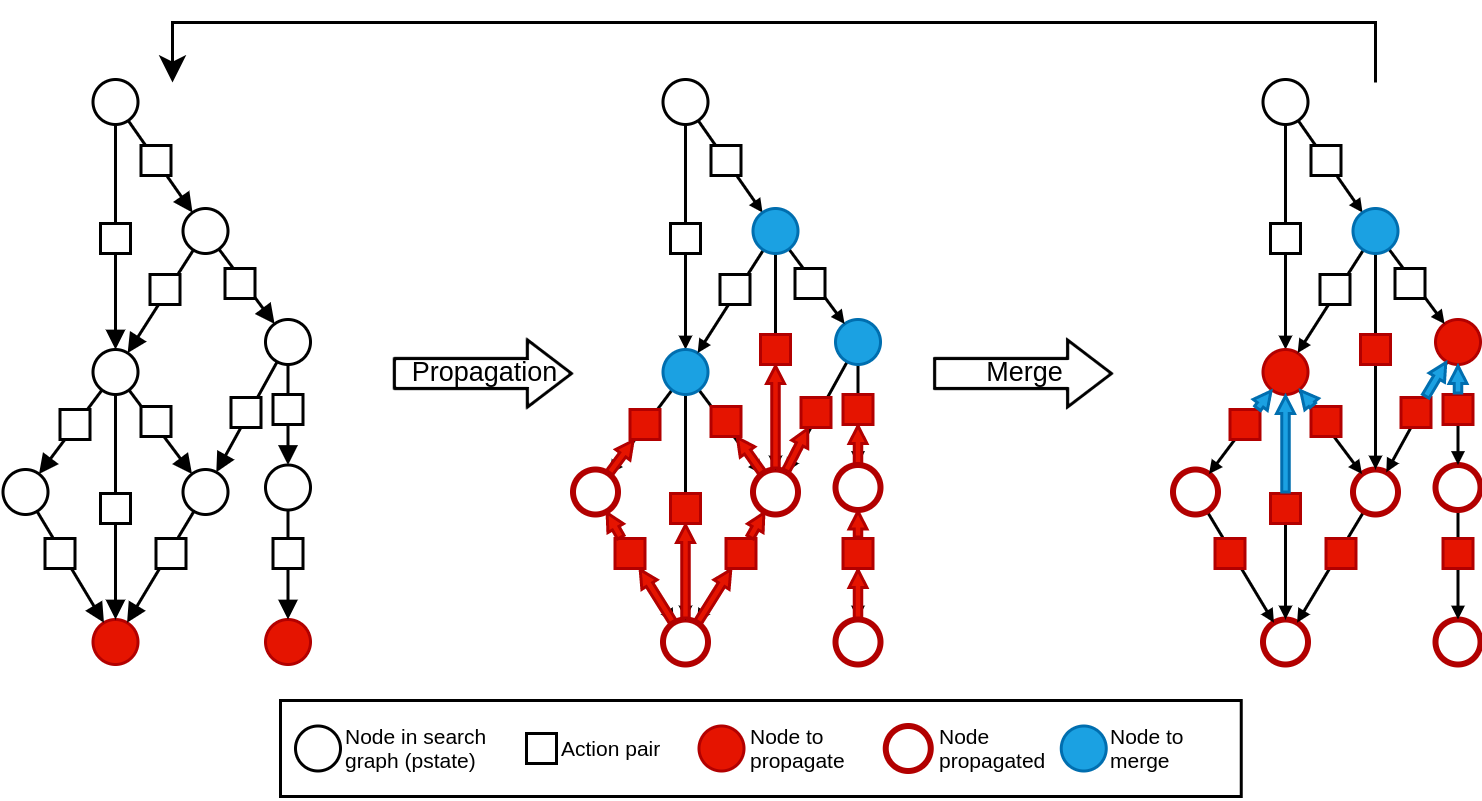
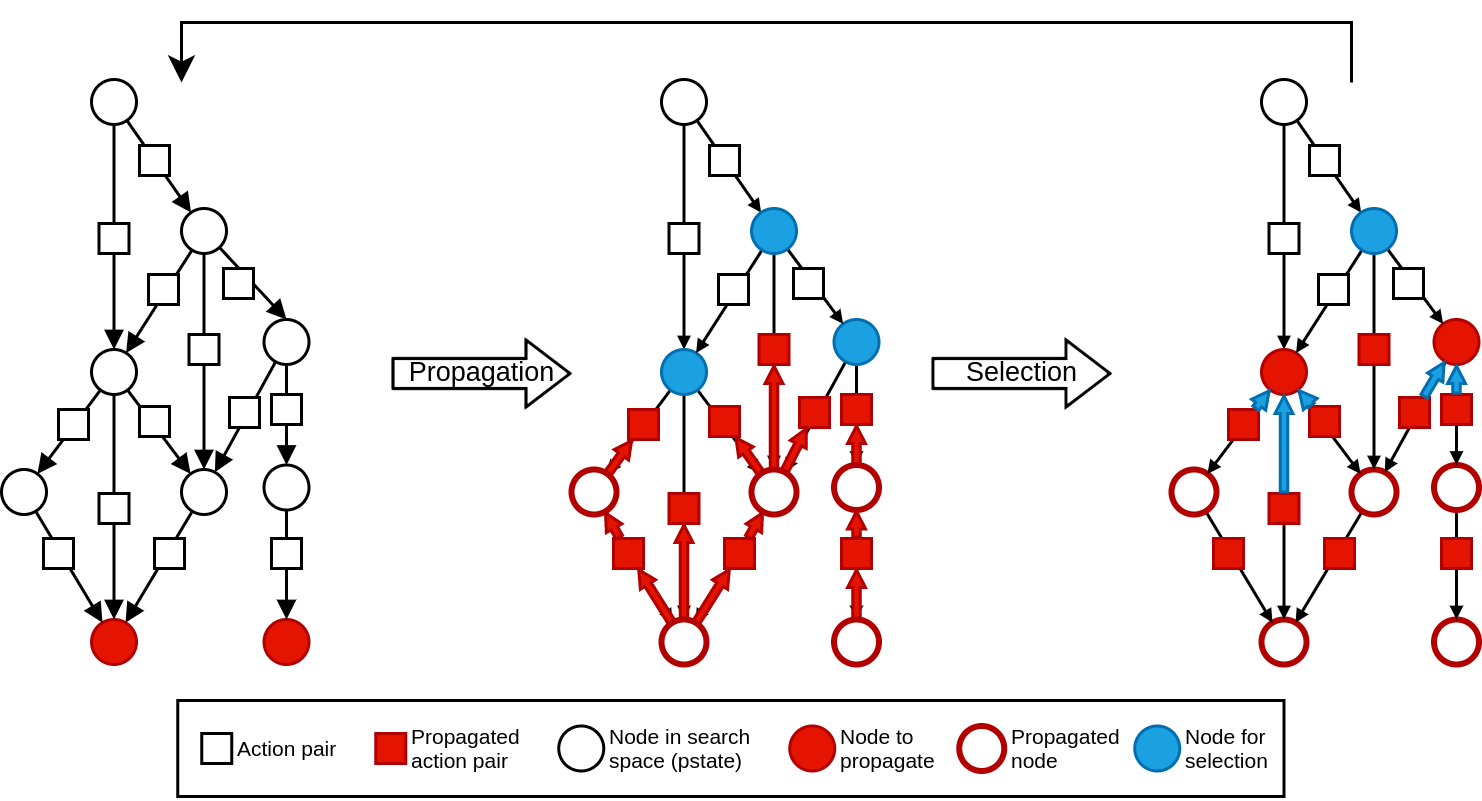
Ch4 algorithms + policy introduction

diff --git a/Chapters/Chapter4_Compliant.tex b/Chapters/Chapter4_Compliant.tex
@@ -91,6 +91,8 @@ A Planning state, referred as p-state, corresponds to a state in which the plann
 The initial p-state is formed using the initial human-robot agendas and the initial world state given in the problem specification. P-states are connected with each other through concurrent pairs of human-robot actions. Note that we consider passive actions, hence, there may be only one active agent in a pair if concurrent human-robot actions. A goal p-state is characterized by a world state satisfying given goal conditions and by empty agendas.
 The exploration produces a directed acyclic graph, referred as the search graph, from the initial p-state to several goal p-states through sequences of concurrent action pairs. Thus, any path from the root to a leaf is a possible plan. Once the exploration done, search graph computed, another process extract the optimal robot policy from the graph. In the manner of an AND-OR tree, this policy indicates for all p-states the best concurrent robot action (OR node) to execute to be compliant with any possible human action (AND node).
 
+Clarification of the directed acyclic graph. Nodes represent p-states and are connected with each other through directed edges representing human-robot concurrent action pairs. However, for practical reasons action pairs are considered as nodes of the graph having only one parent p-state node and one child p-state node. Consider that each directed edge between two p-state have one unique intermediate action pair node. The graph has one root node (no parent) which is the initial p-state. All leaf nodes (no children) represent a goal p-state. 
+
 It is one of our design choice to do not consider explicit action costs and perform an exhaustive offline search to produce this search graph in order to solve a problem. Since the policy generation is very quick it allows generating and updating the robot policy online according to human feedbacks. 
 
 
@@ -124,7 +126,7 @@ This sub-process is computes from a given p-state all possible concurrent action
 However, our current python implementation of the planner is convenient but has no "explicit" preconditions and effects. Everything is defined through python function. The effects of an action are a function with a world state as input and returns the updated world state. Action preconditions are functions with a world state as input and return a boolean. And methods (of an associated abstract task) are functions with world state as input and return a list of tasks to update the agenda with. Methods also have preconditions working similarly then action preconditions. 
 Hence, it's challenging to extract the explicit effects and preconditions of an action. That is why we decided to rely on an assumption to check the compatibility of concurrent actions. 
 We consider the following in a given state. 
-If action 1 and action 2 can be sequentially performed in both orders (1->2 and 2->1). Then we can assume that there are no causal links between the two actions and that they can be performed concurrently. The only care to take are shared resources such as a tool that would only be used during the action, making it available before and after but not during the action. To tackle this issue, shared resources are explicitly declared in the world state and in the action models. Two actions requiring a same shared resource cannot be parallelized.
+If action 1 and action 2 can be sequentially performed in both orders (1$\rightarrow$2 and 2$\rightarrow$1). Then we can assume that there are no causal links between the two actions and that they can be performed concurrently. The only care to take are shared resources such as a tool that would only be used during the action, making it available before and after but not during the action. To tackle this issue, shared resources are explicitly declared in the world state and in the action models. Two actions requiring a same shared resource cannot be parallelized.
 One benefit the way we check if two actions are mutually exclusive is making the actions estimations a black box. Indeed, we can easily replace the way we estimate the next actions each agent is likely to perform. Especially for the human, we could use a pretrained human activity estimator neural network, or more classical planner like PDDL. 
 
 With the causal principle above in mind, we proceed as follows to compute the possible concurrent action pairs from a given p-state. We start by estimating all possible human actions by refining the human agenda, generating a new p-state for each possible action. For each such p-state we first create an action pair where the robot is passive by inserting a \textit{PASS} robot action. This \textit{PASS} pair is stored among all other "human pass pairs". Second, we refine the robot agenda to obtain all feasible sequences of human then robot actions and their associated p-states. We refer to them as the sequential human starting pairs. In a symmetrical way we compute the sequential robot starting pairs and "robot pass pairs" by starting with the robot then refining the human agenda.
@@ -145,9 +147,26 @@ When looking for similar existing p-state, we assume that p-states which are par
 
 \section{Policy generation}
 
-Now, the robot's policy must be determined. We want to preserve the latitude of choice the human have at execution. Hence, the policy must indicate in every p-state which action the robot should concurrently perform according to each action the human is likely to perform. These best concurrent robot actions are determined by aiming to optimally satisfy an estimation of the human preferences regarding the task. Eventually, at execution, the human is free to perform any of the explored action and the robot will accordingly perform an optimal concurrent action to both solve the task and satisfy their estimated preferences.  
+First of all, as depicted in figure~\ref{fig:and_or}, all children concurrent action pairs of a p-state can actually be seen as an AND-OR graph. Since we want to preserve the latitude of choice the human have at execution, each possible human choice of action is considered as an AND edge and leads to a partial p-state. And from a partial p-state, each compliant concurrent robot action is considered as an OR edge and leads to another p-state.
 
-We first describe our format of human preferences and how we could estimate them, and what it allows for us. Then, we describe the actual process to generate the robot policy from the search graph.
+Thus, generating the robot policy $\Pi$ consists in identifying the best concurrent compliant robot action $RA^*$ for each possible human action, or partial p-state $ps_i^j$.
+
+These best concurrent robot actions are determined by aiming to optimally satisfy an estimation of the human preferences regarding the task. Eventually, at execution, the human is free to perform any of the explored action and the robot will accordingly perform an optimal concurrent action to both solve the task and satisfy their estimated preferences.
+
+Hence, before giving more details about the policy itself, we first describe the format of human preferences, how we could estimate them, and what it allows us to do. After, we describe the actual process to generate the robot policy from the search graph using the estimated human preferences
+
+
+**The robot policy consist in performing the best robot action according to the node and the human action, i.e., robot action stored in the "best compliant" pair corresponding to the human action.
+If all "best compliant" pair have the same robot action, the robot can perform as soon as the step stars, otherwise the human action must be identified.**
+
+\begin{figure}
+    \includegraphics[width=\linewidth]{Chapter4/and_or_tree.png}
+    \caption{AND-OR graph representation of the action pairs. 
+    The robot policy must be compliant to any decision of the human. Hence, the problem can be seen as an AND-OR graph where for each possible human choice of action (AND node), we must determine the best concurrent robot action among the possible robot actions (OR node).
+    }
+    \label{fig:and_or}
+\end{figure}
+
 
     \subsection{Estimated Human preferences}
 estimations, format, Discussion(often inaccurate, hence our Approach), consider metrics, is a prioritized sequence of metrics to max or min, allow comparison of metrics
@@ -175,7 +194,6 @@ Note that estimating either human preferences or explicit action and social cost
 Being aware of this, we use the estimated human preferences as a guide for the robot behavior, but we also make sure to be compliant to the human activity to lessen in impact of a wrong estimation. 
 
     \subsection{Process}
-propagation + merge + policy format 
 
 \begin{figure}
     \includegraphics[width=\linewidth]{images/Chapter4/policy_generation.png}
@@ -186,12 +204,116 @@ propagation + merge + policy format
 To generate the robot policy from the search graph we proceed from the leaves to the root. We compute the set of metrics for each possible trace, and when reaching nodes with several children we compare the metrics of the different traces, identify the best ones to update the robot policy with, and then we continue by propagating only the best set of metrics.
 This process is achieved by repeating two sub-routines detailed just below, namely: Propagation and Selection. 
 
+\begin{algorithm}
+\caption{Policy Generation}\label{alg:policy_generation}
+\begin{algorithmic}[1]
+
+\State \textbf{input}: $leafNodes$ \Comment{Set of all leaf nodes from the search graph}
+\State $nodesToPropagate \gets \emptyset$
+\State $nodesForSelection \gets \emptyset$
+
+\State $Initialization(nodesToPropagate, leafNodes)$
+
+\While{ $nodesToPropagate \neq \emptyset$ and $nodesForSelection \neq \emptyset$ }
+    \State $Propagation(nodesToPropagate, nodesForSelection)$
+    \State $Selection(nodesToPropagate, nodesForSelection)$
+\EndWhile
+
+\end{algorithmic}
+\end{algorithm}
+
+    \subsubsection{Format and Initialization}
+
+During this process we compute and store the best reachable set of metrics alternatively in the p-states and in the action pairs. Initially, we store default/null metrics in every leaf p-state. Then we keep track of two types of nodes. First, keep track of the nodes which metrics should be propagated in the next step, those are stored in the set $\{nodesToPropagate\}$ which is initialized with all leaf nodes. This set is populated by the Selection sub-routine. Secondly, we keep track of the nodes to that should select among several the best set of metrics, and thus, the best actions to perform, this set is $\{nodesForSelection\}$. This set is populated by the propagation sub-routine and is being emptied by the selection sub-routine. The process is over when the two sets are empty, thus, when they are no more nodes either to propagate nor for selection.
+
     \subsubsection{Propagation}
 
-For 
+This sub-routine consists in picking a node to propagate from the set $\{nodesToPropagate\}$. For each parent action pair of that node we create a copy of the set of metrics of the propagated node and update them according the parent action pair and propagated node. 
+The metrics must be cumulative. 
+
+Examples for rules to update the metrics are the following. If the human action of the pair is not passive then the \textit{Global Effort} and \textit{Human Effort} metrics are both incremented by 1. If the pair isn't a passive \textit{IDLE}-\textit{IDLE} then \textit{Time of Task Completion} is incremented by 1. If the robot action is passive in the pair and if in the child p-state the robot is holding a cube then \textit{Passive While Holding} is incremented by 1. 
+
+Rules to update the standard metrics are the following \textbf{TO UPDATE, THERE IS AN OFFSET OF 1 FOR TIME STEP METRICS}:
+\vspace{-\topsep}
+\begin{itemize}
+    \setlength\itemsep{-0.3em}
+    \item Always increment (by 1) \textit{Time of Task Completion}%
+    \item If the human action is passive and the current \textit{Human Effort} is zero, then the temporary metric \textit{Number Last Passive Human Action} is incremented.
+    \item \textit{Time of End of Human Duty} = \textit{Time of Task Completion} - \textit{Number Last Passive Human Action}.
+    \item If human action is not passive, then \textit{Human Effort} and \textit{Global Effort} are incremented.
+    \item If robot is not passive, then \textit{Global Effort} is incremented.
+\end{itemize}
+Rules to updates domain specific metrics, must be provided:
+\vspace{-\topsep}
+\begin{itemize}
+    \setlength\itemsep{-0.3em}
+    \item If human action is passive and in child p-state the human is holding a cube, then \textit{Passive While Holding} is incremented.
+    \item \textit{(Similarly with the robot)}
+    \item If the human action is to drop a cube back on the table, then \textit{Number of Drop} is incremented.
+    \item \textit{(Similarly with the robot)}
+\end{itemize}
+
+The updated metrics are stored in their corresponding action pair. Then, two cases can occur for each parent action pair with stored metrics, referred as propagated pairs. First, if the parent node of the propagated pair has more than one child then we add this parent node to the set $\{nodesForSelection\}$. Otherwise, the metrics of the action pair are stored in the parent node which is also added in the set $\{nodesToPropagate\}$. 
+% In both cases, the former propagated node is marked as ``propagated'' (not needed actually).
+The sub-routine repeats until the set $\{nodesToPropagate\}$ is empty.
+
+\begin{algorithm}
+\caption{Propagation}\label{alg:propagation}
+\begin{algorithmic}[1]
+
+\While{ $nodesToPropagate \neq \emptyset$ }
+    \State $N \in nodesToPropagate$
+    \State $nodesToPropagate \gets nodesToPropagate \setminus \{N\}$
+    \For{ each $P$ in $N.parents$ }
+        \State $P.metrics \gets CopyAndUpdateMetrics(N.metrics, N, P)$
+        \If{ $HasOneChild(P.parent)$ }
+            \State $P.parent.metrics \gets P.metrics$
+            \State $nodesToPropagate \gets nodesToPropagate \cup \{P.parent\}$
+        \Else
+            \State $nodesForSelection \gets nodesForSelection \cup \{P.parent\}$
+        \EndIf
+    \EndFor
+\EndWhile
+
+\end{algorithmic}
+\end{algorithm}
+
+
 
     \subsubsection{Selection}
 
+Introduce policy notation, p-state and partial p-state (AND-OR tree)
+
+When a node has several children, possible action pairs, then we must evaluate and compare them in order to make the best robot choices and update the policy with them. The evaluation is part is done by the propagation sub-routine. The Selection one checks when robot choices are ready to be made, update the robot policy and prepare the next propagation phase. 
+
+More precisely, this sub-routine checks every node in the $\{nodesForSelection\}$ set to know if we are ready to make a choice, i.e., if every child pair of that node has metrics stored in it, has been propagated. 
+If not, nothing happens and the node remains in the set.
+If so, we are ready to compare the pairs and update the policy. Since we want the human to be free to perform any action, even suboptimal, we must find the best concurrent robot action for each possible human action. The first step is to group/sort/organize the children pairs by similar human action. Then, for each group of pairs, we compare their metrics using the estimated human preferences and identify the best pair of the group, which is marked a ``best compliant pair''. After, all marked pairs are compared the overall best pair is identified and marked as ``best pair''. Eventually, the metrics of the ``best pair'' are stored in the node from $\{nodesForSelection\}$, the node is removed from the set and added to the other set $\{nodesToPropagate\}$.
+
+\begin{algorithm}
+\caption{Selection \textbf{To update with policy notations}}\label{alg:selection}
+\begin{algorithmic}[1]
+
+\For{ each $N$ in $nodesForSelection$ }
+    \If{ $ReadyForSelection(N)$ }
+        \State $groups \gets GroupPairsByHumanAction(N.children)$
+        \For{ each $group$ in $groups$ }
+            \State $P = IdentifyBestPair(group)$
+            \State $MarkAsBestCompliant(P)$
+        \EndFor
+        \State 
+        \State $bestCompliantPairs \gets RetrieveMarkedBestCompliant(N)$
+        \State $bestPair \gets IdentifyBestPair(bestCompliantPairs)$
+        \State $MarkAsBest(bestPair)$
+        \State 
+        \State $N.metrics \gets bestPair.metrics$
+        \State $nodesForSelection \gets nodesForSelection \setminus \{N\}$
+        \State $nodesToPropagate \gets nodesToPropagate \cup \{N\}$
+    \EndIf
+\EndFor
+
+\end{algorithmic}
+\end{algorithm}
 
 \section{Results}
 simulation of execution, without durative action
